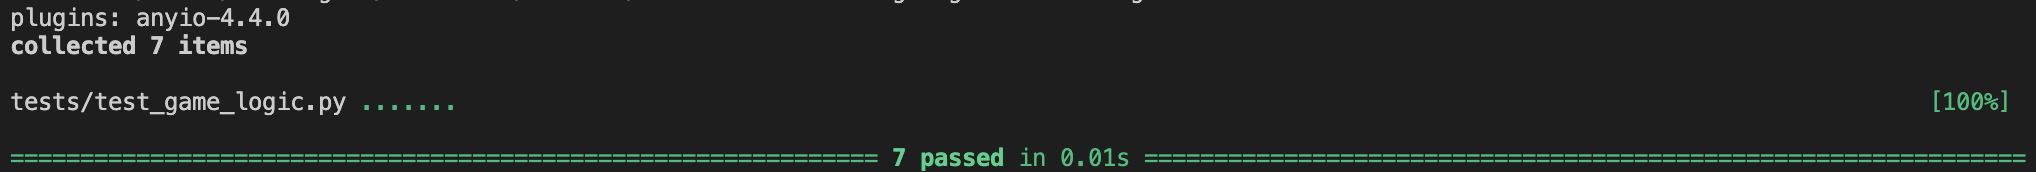
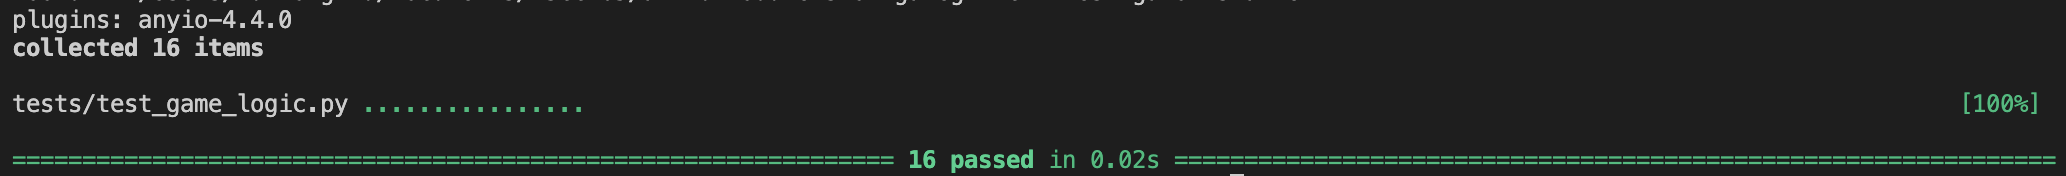
test: add edge-case coverage for parsing and range validation

diff --git a/tests/test_game_logic.py b/tests/test_game_logic.py
@@ -1,4 +1,5 @@
-from logic_utils import check_guess, parse_guess, update_score
+import pytest
+from logic_utils import check_guess, parse_guess, update_score, validate_guess_in_range
 
 def test_winning_guess():
     # If the secret is 50 and guess is 50, it should be a win
@@ -15,6 +16,20 @@ def test_guess_too_low():
     result = check_guess(40, 50)
     assert result == "Too Low"
 
+@pytest.mark.parametrize("raw", ["", "   ", None])
+def test_parse_guess_rejects_empty(raw):
+    ok, value, err = parse_guess(raw)
+    assert ok is False
+    assert value is None
+    assert isinstance(err, str) and err != ""
+
+@pytest.mark.parametrize("raw", ["abc", "12a", "--5"])
+def test_parse_guess_rejects_non_numeric(raw):
+    ok, value, err = parse_guess(raw)
+    assert ok is False
+    assert value is None
+    assert isinstance(err, str) and err != ""
+
 def test_parse_guess_rejects_decimals():
     ok, value, err = parse_guess("12.3")
     assert ok is False
@@ -26,6 +41,20 @@ def test_parse_guess_strips_whitespace():
     assert ok is True
     assert value == 42
     assert err is None
+
+def test_validate_guess_in_range_rejects_negative():
+    ok, err = validate_guess_in_range(-1, 1, 100)
+    assert ok is False
+    assert "between" in err
+
+def test_validate_guess_in_range_rejects_too_large():
+    ok, err = validate_guess_in_range(101, 1, 100)
+    assert ok is False
+    assert "between" in err
+
+def test_validate_guess_in_range_accepts_bounds():
+    assert validate_guess_in_range(1, 1, 100) == (True, None)
+    assert validate_guess_in_range(100, 1, 100) == (True, None)
 
 def test_update_score_wrong_guess_decrements_and_floors_at_zero():
     assert update_score(3, "Too High", 1) == 0
